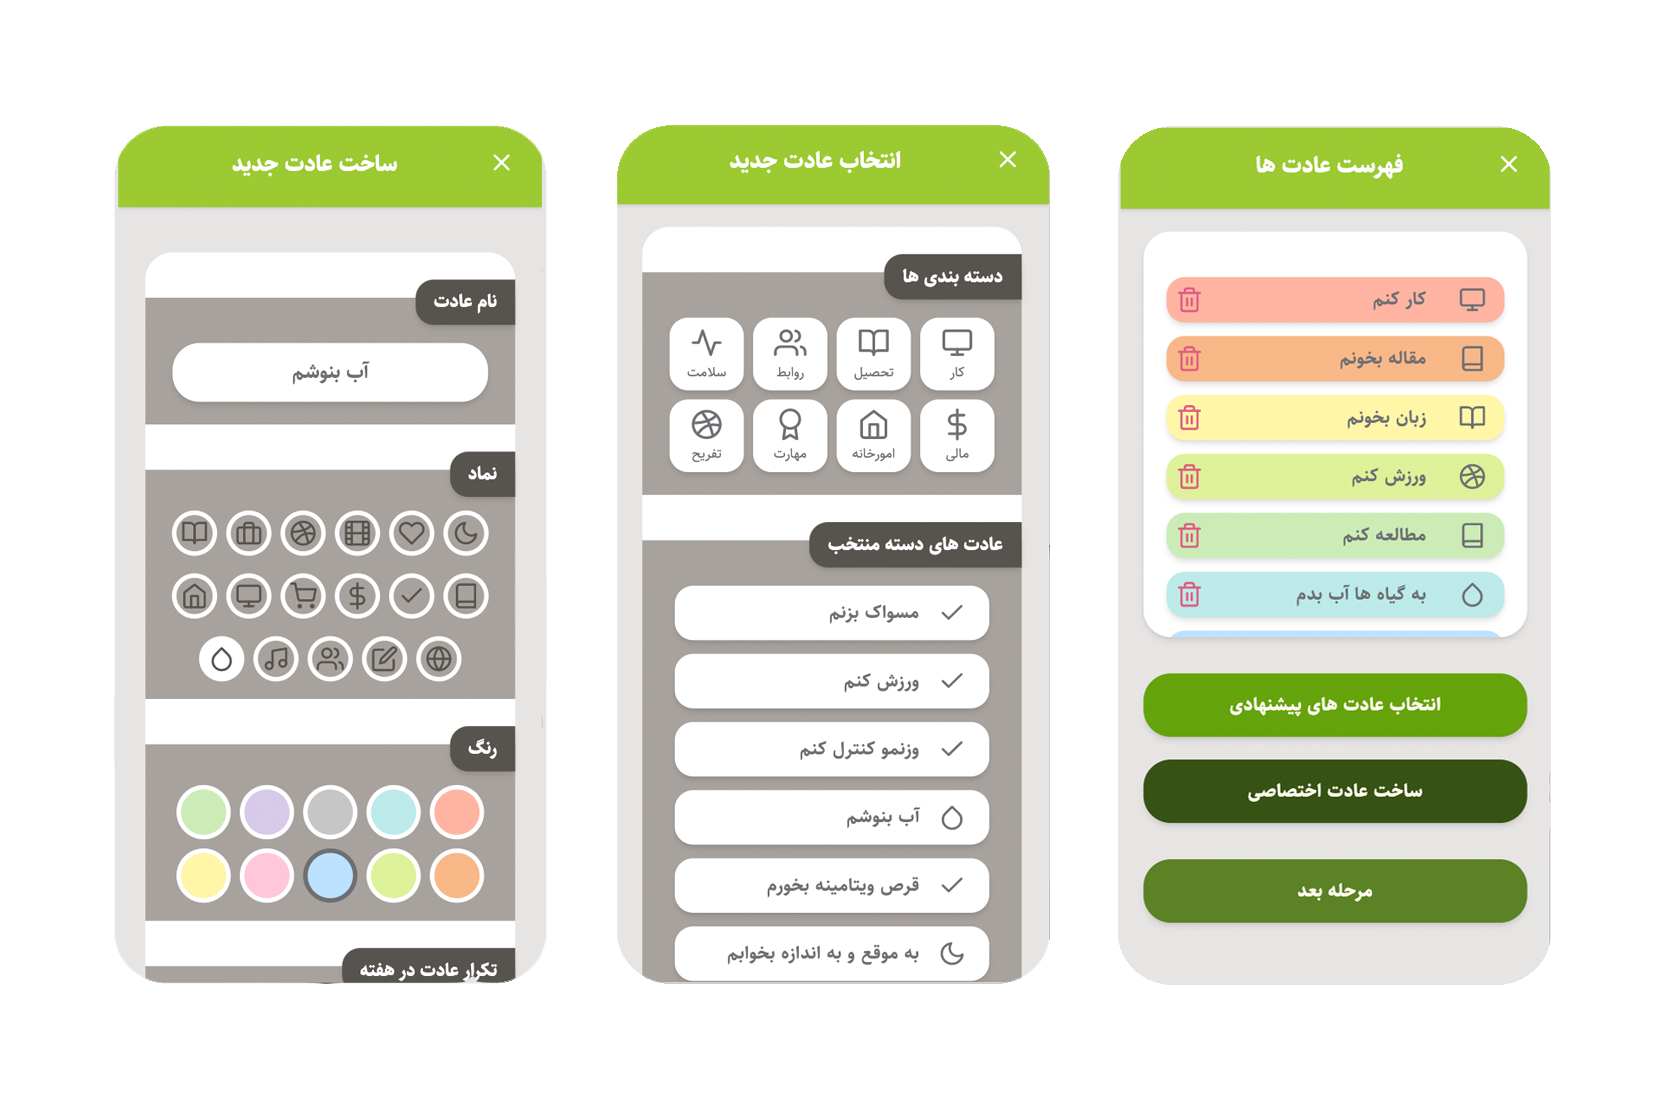
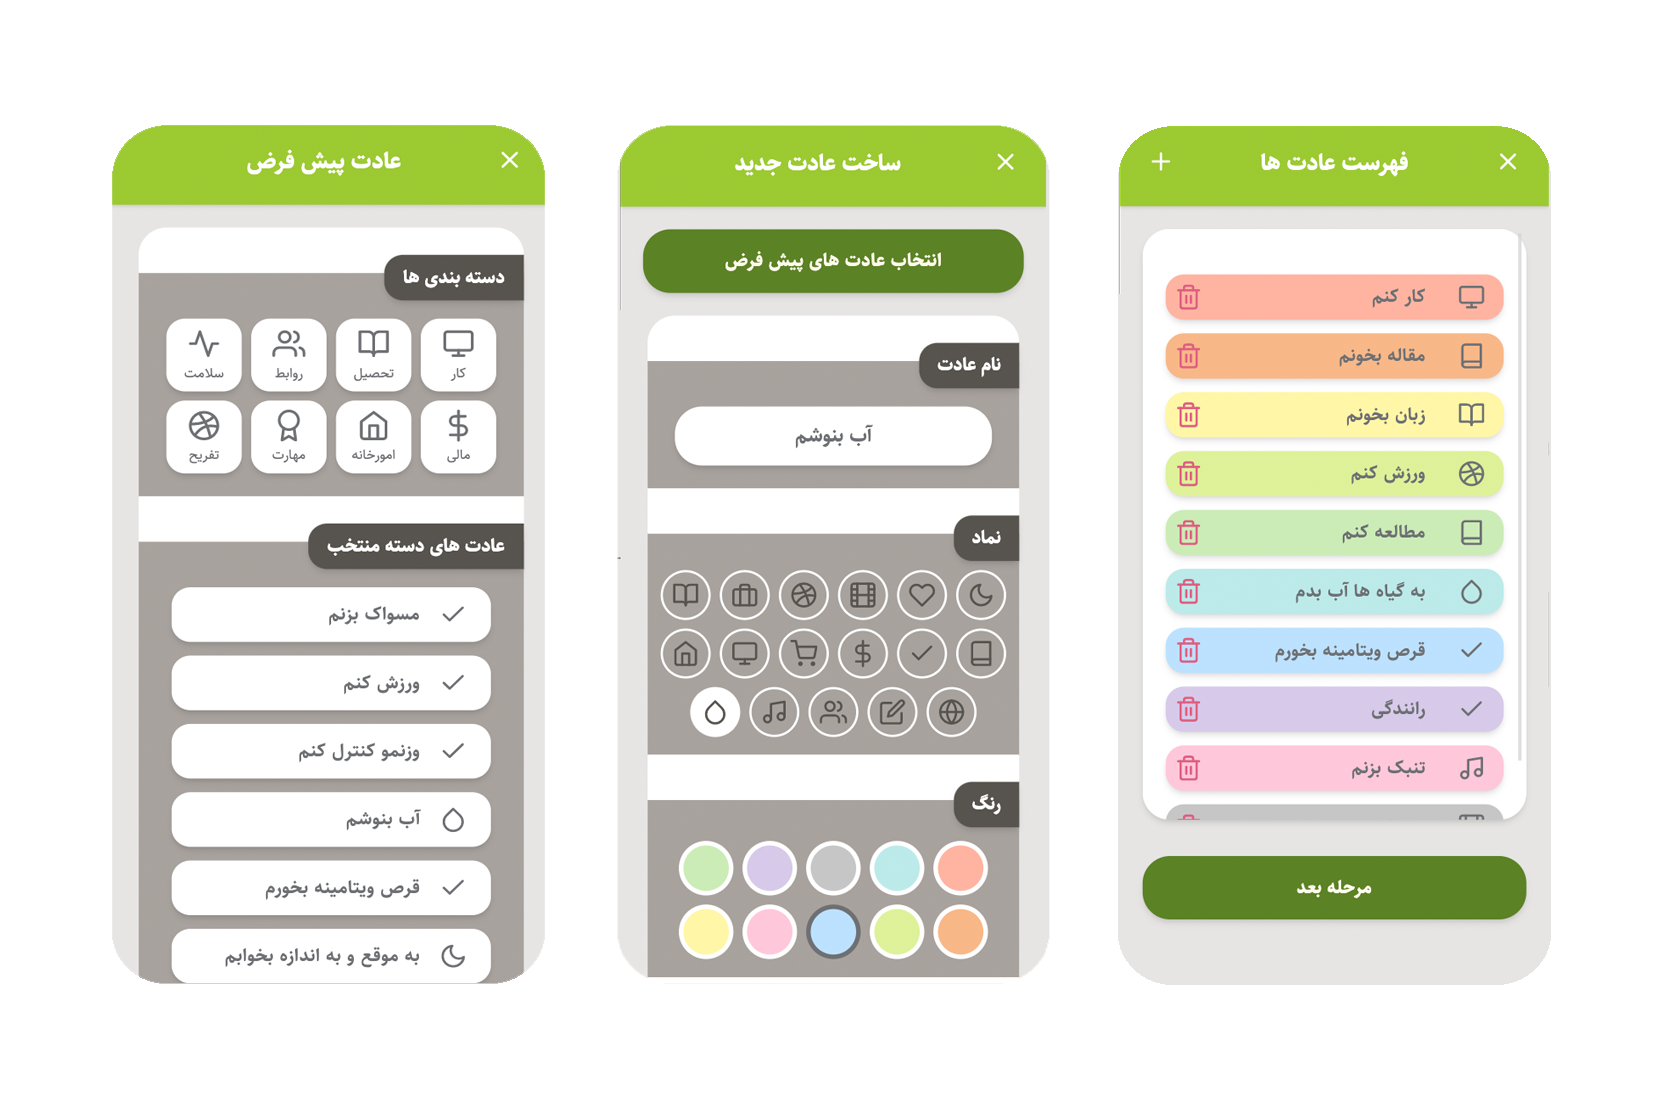
refactor: clean code

diff --git a/src/views/Creation.vue b/src/views/Creation.vue
@@ -6,6 +6,7 @@
                 <vue-feather type="x" class="ml-20 h-6 w-6"></vue-feather>
             </button>
         </section>
+        <button @click="suggestHabit()" class="bg-avocado btn-category">انتخاب عادت های پیش فرض</button>
         <section class="flex flex-col bg-white text-silver mx-6 mt-5 mb-7 rounded-3xl h-full dark:bg-charcoal">
             <div class="habit-title flex flex-col items-end">
                 <label class="label-creation">نام عادت</label>
@@ -18,8 +19,8 @@
                 <section class="section-creation dark:text-white">
                     <div v-for="icon in icons" :key="icon.id">
                         <vue-feather @click="chooseIcon(icon.type)" :type="icon.type"
-                            :class="{ 'bg-white dark:bg-silver': habitIcon == icon.type }"
-                            class="rounded-full border-4 p-1 m-1  text-stone-600 dark:text-white border-white dark:border-silver"></vue-feather>
+                            :class="{ 'bg-white': habitIcon == icon.type }"
+                            class="rounded-full border-2 p-2 mx-1 text-stone-600 border-white dark:border-silver"></vue-feather>
                     </div>
                 </section>
             </div>
@@ -62,7 +63,7 @@
 import DataStore from '../DataStore.js'
 import { WeekDays } from '../Enums.js'
 import { Colors } from '../Enums.js'
-import { icons } from '../Data.js';
+import { categories, habits, icons } from '../Data.js';
 
 export default {
     name: 'Creation',
@@ -78,6 +79,8 @@ export default {
             habitDescription: null,
             weekDays: WeekDays,
             isVisible: false,
+            categories: categories,
+            habits: habits,
         }
     },
     methods: {
@@ -90,7 +93,13 @@ export default {
             this.$router.push(`/Category`);
         },
         goBack() {
-            this.$router.go(-1)
+            if (this.$route.query.title) {
+                this.$router.go(-3);
+                console.log("right")
+            }
+            else {
+                this.$router.go(-1);
+            }
         },
         async loadIcons() {
             this.icons = icons;
@@ -111,6 +120,12 @@ export default {
         },
         hideModal() {
             this.isVisible = false
+        },
+        showCategoryHabits(categoryId) {
+            this.categoryHabits = this.habits.filter(a => a.categoryId == categoryId);
+        },
+        suggestHabit() {
+            this.$router.push(`/category/suggestion`);
         },
     },
     mounted() {

diff --git a/src/views/Category.vue b/src/views/Category.vue
@@ -1,9 +1,12 @@
 <template>
     <div class="bg-stone-200 flex flex-col text-center h-vh text-silver dark:bg-gunmetal">
-        <section class="flex justify-end drop-shadow px-6 py-5 mb-5 text-white dark:text-white bg-yellow-green">
+        <section class="flex justify-between drop-shadow px-6 py-5 mb-5 text-white dark:text-white bg-yellow-green">
+            <button @click="createHabit()">
+                <vue-feather type="plus" class="h-6 w-6"></vue-feather>
+            </button>
             <h1 class="text-xl font-bold">فهرست عادت ها</h1>
             <button @click="goBack()">
-                <vue-feather type="x" class="ml-20 h-6 w-6"></vue-feather>
+                <vue-feather type="x" class="h-6 w-6"></vue-feather>
             </button>
         </section>
         <div class="habits-list flex flex-col items-center h-90 rounded-3xl shadow-md font-bold mx-5 px-5 py-7 text-silver bg-white dark:bg-charcoal overflow-y-auto overflow-x-hidden">
@@ -16,8 +19,6 @@
                 </div>
             </section>
         </div>
-        <button @click="suggestHabit()" class="bg-lime-600 btn-category mt-8">انتخاب عادت های پیشنهادی</button>
-        <button @click="createHabit()" class="bg-lime-900 btn-category mt-5">ساخت عادت اختصاصی</button>
         <button @click="showHabitList()" class="bg-avocado btn-category mt-8">مرحله بعد</button>
     </div>
 </template>
@@ -33,9 +34,6 @@ export default {
         }
     },
     methods: {
-        suggestHabit() {
-            this.$router.push(`/category/suggestion`);
-        },
         createHabit() {
             this.$router.push(`/category/creation`);
         },

diff --git a/src/views/Suggestion.vue b/src/views/Suggestion.vue
@@ -1,7 +1,7 @@
 <template>
     <div class="bg-stone-200 flex flex-col text-center min-h-screen text-silver dark:bg-gunmetal">
         <section class="title flex justify-end drop-shadow px-6 py-5 mb-5 text-white dark:text-white bg-yellow-green">
-            <h1 class="text-xl font-bold">انتخاب عادت جدید</h1>
+            <h1 class="text-xl font-bold"> عادت پیش فرض</h1>
             <button @click="goBack()">
                 <vue-feather type="x" class="ml-20 h-6 w-6"></vue-feather>
             </button>

diff --git a/src/style.css b/src/style.css
@@ -13,7 +13,7 @@
     @apply bg-stone-600 rounded-l-2xl font-bold py-2 px-4 w-fit shadow-md relative top-6 text-white;
   }
   .section-creation {
-    @apply flex flex-wrap items-center justify-center w-full pt-8 pb-1 px-2 bg-stone-400;
+    @apply flex flex-wrap items-center justify-center w-full pt-8 pb-2 bg-stone-400;
   }
 }
 

diff --git a/README.md b/README.md
@@ -1,5 +1,7 @@
  # Adatyar
-It is a habit tracker **mobile web application** that helps you create and track your habits.
+
+## Introduction
+Adatyar is a habit tracker **mobile web application** that helps you create and track your habits.
 A user starts by making a list of habits. He/she can choose from the recommended habits or create new custom habits.
 
 ### TodayHabits - عادت های امروز
@@ -23,10 +25,12 @@ The project is made by:
 - [Heroicons](https://heroicons.com/)
 - [Feather-icons](https://feathericons.com/)
 
+
 ## Screenshots
 ![HabiTrack Screenshot](screenshot-1.png)
 
 ![HabiTrack Screenshot](screenshot-2.png)
+
 
 ## Installation
 For running the project:
